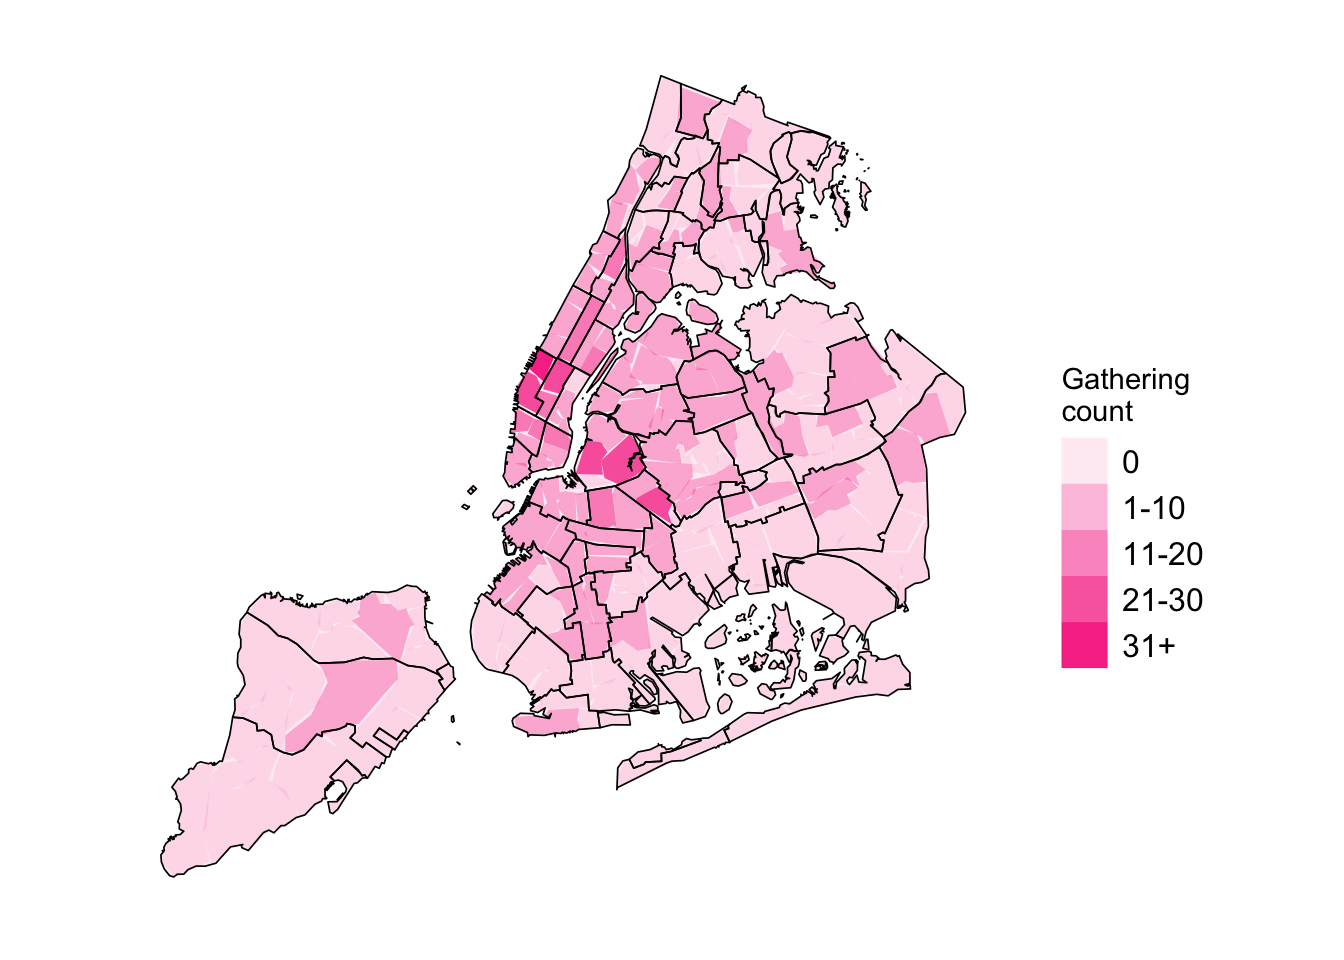
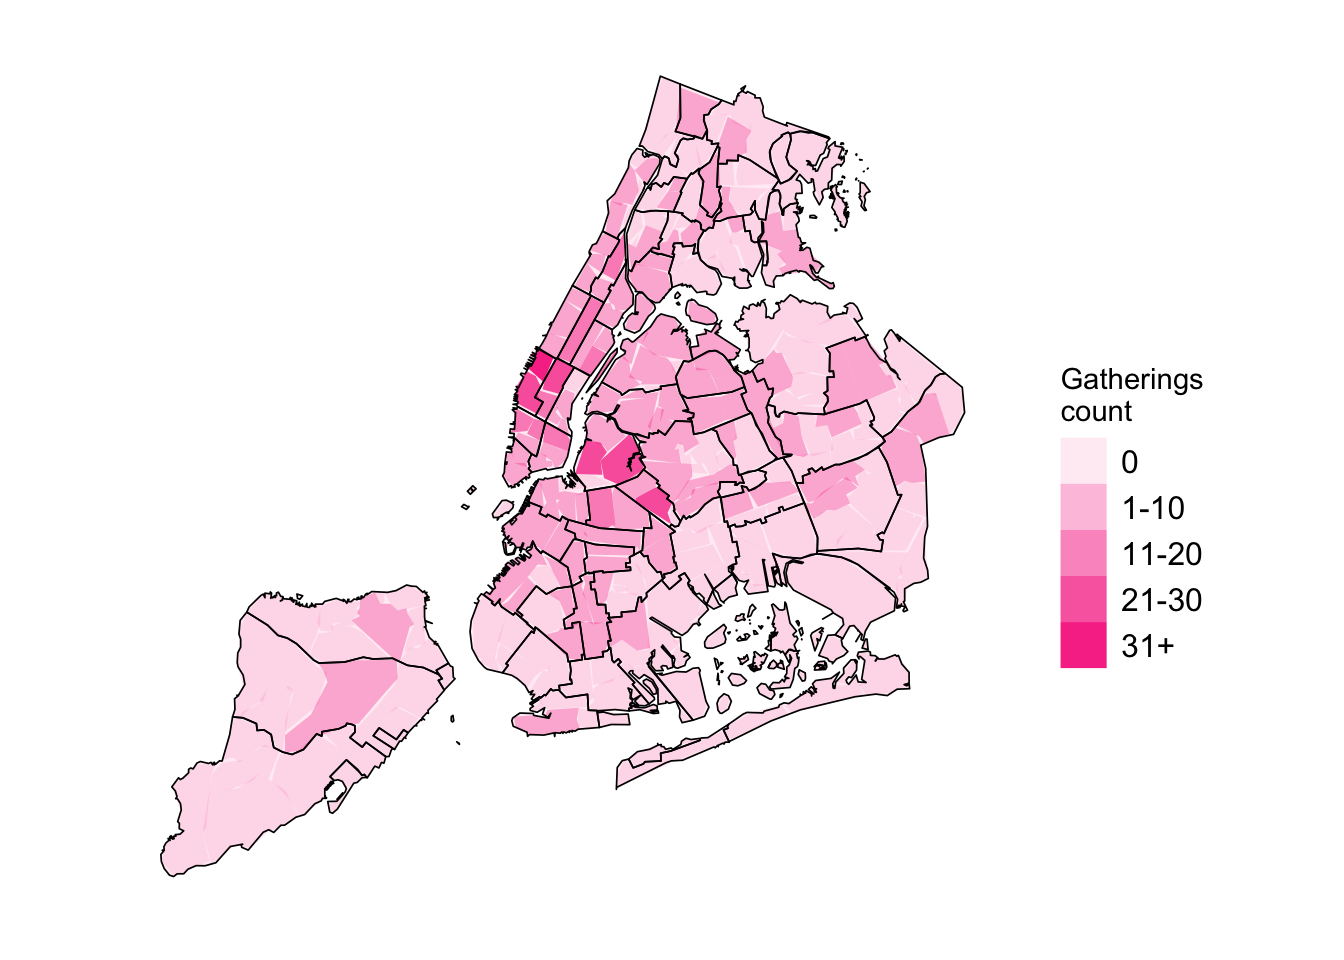
updates

diff --git a/_book/3_results/3_3__results_movement.html b/_book/3_results/3_3__results_movement.html
@@ -4,7 +4,7 @@
 <meta charset="utf-8">
 <meta name="generator" content="quarto-1.3.450">
 <meta name="viewport" content="width=device-width, initial-scale=1.0, user-scalable=yes">
-<title>host or travel? - 9&nbsp; Movement</title>
+<title>host or travel? - 9&nbsp; Journeys</title>
 <style>
 code{white-space: pre-wrap;}
 span.smallcaps{font-variant: small-caps;}
@@ -98,7 +98,7 @@ pre > code.sourceCode > span > a:first-child::before { text-decoration: underlin
       <button type="button" class="quarto-btn-toggle btn" data-bs-toggle="collapse" data-bs-target="#quarto-sidebar,#quarto-sidebar-glass" aria-controls="quarto-sidebar" aria-expanded="false" aria-label="Toggle sidebar navigation" onclick="if (window.quartoToggleHeadroom) { window.quartoToggleHeadroom(); }">
         <i class="bi bi-layout-text-sidebar-reverse"></i>
       </button>
-      <nav class="quarto-page-breadcrumbs" aria-label="breadcrumb"><ol class="breadcrumb"><li class="breadcrumb-item"><a href="../3_results/3_1__results_participants.html">*Results</a></li><li class="breadcrumb-item"><a href="../3_results/3_3__results_movement.html"><span class="chapter-number">9</span>&nbsp; <span class="chapter-title">Movement</span></a></li></ol></nav>
+      <nav class="quarto-page-breadcrumbs" aria-label="breadcrumb"><ol class="breadcrumb"><li class="breadcrumb-item"><a href="../3_results/3_1__results_participants.html">*Results</a></li><li class="breadcrumb-item"><a href="../3_results/3_3__results_movement.html"><span class="chapter-number">9</span>&nbsp; <span class="chapter-title">Journeys</span></a></li></ol></nav>
       <a class="flex-grow-1" role="button" data-bs-toggle="collapse" data-bs-target="#quarto-sidebar,#quarto-sidebar-glass" aria-controls="quarto-sidebar" aria-expanded="false" aria-label="Toggle sidebar navigation" onclick="if (window.quartoToggleHeadroom) { window.quartoToggleHeadroom(); }">      
       </a>
       <button type="button" class="btn quarto-search-button" aria-label="" onclick="window.quartoOpenSearch();">
@@ -203,13 +203,13 @@ pre > code.sourceCode > span > a:first-child::before { text-decoration: underlin
           <li class="sidebar-item">
   <div class="sidebar-item-container"> 
   <a href="../3_results/3_2__results_contact_venues.html" class="sidebar-item-text sidebar-link">
- <span class="menu-text"><span class="chapter-number">8</span>&nbsp; <span class="chapter-title">Places</span></span></a>
+ <span class="menu-text"><span class="chapter-number">8</span>&nbsp; <span class="chapter-title">Gatherings</span></span></a>
   </div>
 </li>
           <li class="sidebar-item">
   <div class="sidebar-item-container"> 
   <a href="../3_results/3_3__results_movement.html" class="sidebar-item-text sidebar-link active">
- <span class="menu-text"><span class="chapter-number">9</span>&nbsp; <span class="chapter-title">Movement</span></span></a>
+ <span class="menu-text"><span class="chapter-number">9</span>&nbsp; <span class="chapter-title">Journeys</span></span></a>
   </div>
 </li>
           <li class="sidebar-item">
@@ -344,7 +344,7 @@ pre > code.sourceCode > span > a:first-child::before { text-decoration: underlin
   </ul></nav>
     </div>
 <!-- main -->
-<main class="content" id="quarto-document-content"><header id="title-block-header"><div class="quarto-title-block d-none d-lg-block"><div><h1 class="title"><span id="sec-movement" class="quarto-section-identifier"><span class="chapter-number">9</span>&nbsp; <span class="chapter-title">Movement</span></span></h1><button type="button" class="btn code-tools-button dropdown-toggle" id="quarto-code-tools-menu" data-bs-toggle="dropdown" aria-expanded="false"><i class="bi"></i> Code</button><ul class="dropdown-menu dropdown-menu-end" aria-labelelledby="quarto-code-tools-menu"><li><a id="quarto-show-all-code" class="dropdown-item" href="javascript:void(0)" role="button">Show All Code</a></li><li><a id="quarto-hide-all-code" class="dropdown-item" href="javascript:void(0)" role="button">Hide All Code</a></li></ul></div></div>
+<main class="content" id="quarto-document-content"><header id="title-block-header"><div class="quarto-title-block d-none d-lg-block"><div><h1 class="title"><span id="sec-movement" class="quarto-section-identifier"><span class="chapter-number">9</span>&nbsp; <span class="chapter-title">Journeys</span></span></h1><button type="button" class="btn code-tools-button dropdown-toggle" id="quarto-code-tools-menu" data-bs-toggle="dropdown" aria-expanded="false"><i class="bi"></i> Code</button><ul class="dropdown-menu dropdown-menu-end" aria-labelelledby="quarto-code-tools-menu"><li><a id="quarto-show-all-code" class="dropdown-item" href="javascript:void(0)" role="button">Show All Code</a></li><li><a id="quarto-hide-all-code" class="dropdown-item" href="javascript:void(0)" role="button">Hide All Code</a></li></ul></div></div>
 
 </header><div class="cell" data-hash="3_3__results_movement_cache/html/unnamed-chunk-1_45b06088b95dd92a75be029873bfb7b4">
 <details><summary>Code</summary><div class="sourceCode" id="cb1"><pre class="downlit sourceCode r code-with-copy"><code class="sourceCode R"><span><span class="co"># Access custom defined functions</span></span>
@@ -682,7 +682,7 @@ window.document.addEventListener("DOMContentLoaded", function (event) {
 });
 </script><nav class="page-navigation"><div class="nav-page nav-page-previous">
       <a href="../3_results/3_2__results_contact_venues.html" class="pagination-link">
-        <i class="bi bi-arrow-left-short"></i> <span class="nav-page-text"><span class="chapter-number">8</span>&nbsp; <span class="chapter-title">Places</span></span>
+        <i class="bi bi-arrow-left-short"></i> <span class="nav-page-text"><span class="chapter-number">8</span>&nbsp; <span class="chapter-title">Gatherings</span></span>
       </a>          
   </div>
   <div class="nav-page nav-page-next">

diff --git a/_book/3_results/3_5__results_outbreak_control.html b/_book/3_results/3_5__results_outbreak_control.html
@@ -4,7 +4,7 @@
 <meta charset="utf-8">
 <meta name="generator" content="quarto-1.3.450">
 <meta name="viewport" content="width=device-width, initial-scale=1.0, user-scalable=yes">
-<title>host or travel? - 11&nbsp; *Outbreak control</title>
+<title>host or travel? - 11&nbsp; *Outbreaks</title>
 <style>
 code{white-space: pre-wrap;}
 span.smallcaps{font-variant: small-caps;}
@@ -98,7 +98,7 @@ pre > code.sourceCode > span > a:first-child::before { text-decoration: underlin
       <button type="button" class="quarto-btn-toggle btn" data-bs-toggle="collapse" data-bs-target="#quarto-sidebar,#quarto-sidebar-glass" aria-controls="quarto-sidebar" aria-expanded="false" aria-label="Toggle sidebar navigation" onclick="if (window.quartoToggleHeadroom) { window.quartoToggleHeadroom(); }">
         <i class="bi bi-layout-text-sidebar-reverse"></i>
       </button>
-      <nav class="quarto-page-breadcrumbs" aria-label="breadcrumb"><ol class="breadcrumb"><li class="breadcrumb-item"><a href="../3_results/3_1__results_participants.html">*Results</a></li><li class="breadcrumb-item"><a href="../3_results/3_5__results_outbreak_control.html"><span class="chapter-number">11</span>&nbsp; <span class="chapter-title">*Outbreak control</span></a></li></ol></nav>
+      <nav class="quarto-page-breadcrumbs" aria-label="breadcrumb"><ol class="breadcrumb"><li class="breadcrumb-item"><a href="../3_results/3_1__results_participants.html">*Results</a></li><li class="breadcrumb-item"><a href="../3_results/3_5__results_outbreak_control.html"><span class="chapter-number">11</span>&nbsp; <span class="chapter-title">*Outbreaks</span></a></li></ol></nav>
       <a class="flex-grow-1" role="button" data-bs-toggle="collapse" data-bs-target="#quarto-sidebar,#quarto-sidebar-glass" aria-controls="quarto-sidebar" aria-expanded="false" aria-label="Toggle sidebar navigation" onclick="if (window.quartoToggleHeadroom) { window.quartoToggleHeadroom(); }">      
       </a>
       <button type="button" class="btn quarto-search-button" aria-label="" onclick="window.quartoOpenSearch();">
@@ -203,13 +203,13 @@ pre > code.sourceCode > span > a:first-child::before { text-decoration: underlin
           <li class="sidebar-item">
   <div class="sidebar-item-container"> 
   <a href="../3_results/3_2__results_contact_venues.html" class="sidebar-item-text sidebar-link">
- <span class="menu-text"><span class="chapter-number">8</span>&nbsp; <span class="chapter-title">Places</span></span></a>
+ <span class="menu-text"><span class="chapter-number">8</span>&nbsp; <span class="chapter-title">Gatherings</span></span></a>
   </div>
 </li>
           <li class="sidebar-item">
   <div class="sidebar-item-container"> 
   <a href="../3_results/3_3__results_movement.html" class="sidebar-item-text sidebar-link">
- <span class="menu-text"><span class="chapter-number">9</span>&nbsp; <span class="chapter-title">Movement</span></span></a>
+ <span class="menu-text"><span class="chapter-number">9</span>&nbsp; <span class="chapter-title">Journeys</span></span></a>
   </div>
 </li>
           <li class="sidebar-item">
@@ -221,7 +221,7 @@ pre > code.sourceCode > span > a:first-child::before { text-decoration: underlin
           <li class="sidebar-item">
   <div class="sidebar-item-container"> 
   <a href="../3_results/3_5__results_outbreak_control.html" class="sidebar-item-text sidebar-link active">
- <span class="menu-text"><span class="chapter-number">11</span>&nbsp; <span class="chapter-title">*Outbreak control</span></span></a>
+ <span class="menu-text"><span class="chapter-number">11</span>&nbsp; <span class="chapter-title">*Outbreaks</span></span></a>
   </div>
 </li>
       </ul>
@@ -344,7 +344,7 @@ pre > code.sourceCode > span > a:first-child::before { text-decoration: underlin
   </ul></nav>
     </div>
 <!-- main -->
-<main class="content" id="quarto-document-content"><header id="title-block-header"><div class="quarto-title-block d-none d-lg-block"><div><h1 class="title"><span id="sec-intervention" class="quarto-section-identifier"><span class="chapter-number">11</span>&nbsp; <span class="chapter-title">*Outbreak control</span></span></h1><button type="button" class="btn code-tools-button dropdown-toggle" id="quarto-code-tools-menu" data-bs-toggle="dropdown" aria-expanded="false"><i class="bi"></i> Code</button><ul class="dropdown-menu dropdown-menu-end" aria-labelelledby="quarto-code-tools-menu"><li><a id="quarto-show-all-code" class="dropdown-item" href="javascript:void(0)" role="button">Show All Code</a></li><li><a id="quarto-hide-all-code" class="dropdown-item" href="javascript:void(0)" role="button">Hide All Code</a></li></ul></div></div>
+<main class="content" id="quarto-document-content"><header id="title-block-header"><div class="quarto-title-block d-none d-lg-block"><div><h1 class="title"><span id="sec-intervention" class="quarto-section-identifier"><span class="chapter-number">11</span>&nbsp; <span class="chapter-title">*Outbreaks</span></span></h1><button type="button" class="btn code-tools-button dropdown-toggle" id="quarto-code-tools-menu" data-bs-toggle="dropdown" aria-expanded="false"><i class="bi"></i> Code</button><ul class="dropdown-menu dropdown-menu-end" aria-labelelledby="quarto-code-tools-menu"><li><a id="quarto-show-all-code" class="dropdown-item" href="javascript:void(0)" role="button">Show All Code</a></li><li><a id="quarto-hide-all-code" class="dropdown-item" href="javascript:void(0)" role="button">Hide All Code</a></li></ul></div></div>
 
 </header><div class="cell" data-hash="3_5__results_outbreak_control_cache/html/unnamed-chunk-1_4fcf7c0320b325294b68db210ed6f760">
 <details><summary>Code</summary><div class="sourceCode" id="cb1"><pre class="downlit sourceCode r code-with-copy"><code class="sourceCode R"><span><span class="co"># Access custom defined functions</span></span>

diff --git a/_book/3_results/3_2__results_contact_venues.html b/_book/3_results/3_2__results_contact_venues.html
@@ -971,7 +971,7 @@ N = 616<span class="gt_footnote_marks" style="white-space:nowrap;font-style:ital
 </div>
 </div>
 <p>Contact venues at which participants had sexual contact (rather than non-sexual physical contact) were overwhelmingly private residences whereas contact venues at which they had non-sexual physical contact were mostly dance parties (see <a href="#fig-placetype-bar-grid">Figure&nbsp;<span>8.1</span></a>). The closer to home a location was, the more likely it was to be a private residence and the more likely it was the site of sexual contact. By contrast, the further from home a contact venue was, the more likely it was to be a dance party.</p>
-<div class="cell" data-hash="3_2__results_contact_venues_cache/html/unnamed-chunk-4_5517c16d89aba41860e061c199bbcd7d">
+<div class="cell" data-hash="3_2__results_contact_venues_cache/html/unnamed-chunk-4_5923d4f3f375089507c0c8d140b1b598">
 <details><summary>Code</summary><div class="sourceCode" id="cb3"><pre class="downlit sourceCode r code-with-copy"><code class="sourceCode R"><span><span class="va">make_tabledata_gatherings</span> <span class="op">&lt;-</span> <span class="kw">function</span><span class="op">(</span><span class="op">)</span><span class="op">{</span></span>
 <span>  <span class="fu">targets</span><span class="fu">::</span><span class="fu"><a href="https://docs.ropensci.org/targets/reference/tar_read.html">tar_read</a></span><span class="op">(</span><span class="va">data_bipartite_graph_collected</span><span class="op">)</span> <span class="op">|&gt;</span></span>
 <span>    <span class="fu">tidygraph</span><span class="fu">::</span><span class="fu"><a href="https://tidygraph.data-imaginist.com/reference/activate.html">activate</a></span><span class="op">(</span><span class="va">edges</span><span class="op">)</span><span class="op">|&gt;</span></span>
@@ -999,7 +999,7 @@ N = 616<span class="gt_footnote_marks" style="white-space:nowrap;font-style:ital
 <span>  <span class="fu">ggplot2</span><span class="fu">::</span><span class="fu"><a href="https://ggplot2.tidyverse.org/reference/ggsf.html">geom_sf</a></span><span class="op">(</span>data <span class="op">=</span> <span class="fu">mpxnyc</span><span class="fu">::</span><span class="va">community_sf_obj</span>, fill <span class="op">=</span> <span class="st">"#F73C95"</span>, linewidth <span class="op">=</span> <span class="fl">0</span>, color <span class="op">=</span> <span class="cn">NA</span>, alpha <span class="op">=</span> <span class="fl">0.1</span><span class="op">)</span> <span class="op">+</span></span>
 <span>  <span class="fu">ggplot2</span><span class="fu">::</span><span class="fu"><a href="https://ggplot2.tidyverse.org/reference/ggsf.html">geom_sf</a></span><span class="op">(</span><span class="fu">ggplot2</span><span class="fu">::</span><span class="fu"><a href="https://ggplot2.tidyverse.org/reference/aes.html">aes</a></span><span class="op">(</span>alpha <span class="op">=</span> <span class="va">count_cat</span><span class="op">)</span>, linewidth <span class="op">=</span> <span class="fl">0</span>, fill <span class="op">=</span> <span class="st">"#F73C95"</span>, color <span class="op">=</span> <span class="st">"#FF99C5"</span><span class="op">)</span> <span class="op">+</span></span>
 <span>  <span class="fu">ggplot2</span><span class="fu">::</span><span class="fu"><a href="https://ggplot2.tidyverse.org/reference/ggsf.html">geom_sf</a></span><span class="op">(</span>data <span class="op">=</span> <span class="fu">mpxnyc</span><span class="fu">::</span><span class="va">community_sf_obj</span>, fill <span class="op">=</span> <span class="cn">NA</span>, linewidth <span class="op">=</span> <span class="fl">0.3</span>, color <span class="op">=</span> <span class="st">"black"</span><span class="op">)</span> <span class="op">+</span></span>
-<span>  <span class="fu">ggplot2</span><span class="fu">::</span><span class="fu"><a href="https://ggplot2.tidyverse.org/reference/scale_alpha.html">scale_alpha_discrete</a></span><span class="op">(</span><span class="st">"Gathering\ncount"</span><span class="op">)</span> <span class="op">+</span></span>
+<span>  <span class="fu">ggplot2</span><span class="fu">::</span><span class="fu"><a href="https://ggplot2.tidyverse.org/reference/scale_alpha.html">scale_alpha_discrete</a></span><span class="op">(</span><span class="st">"Gatherings\ncount"</span><span class="op">)</span> <span class="op">+</span></span>
 <span>  <span class="fu">theme_mpxnyc_blank</span><span class="op">(</span></span>
 <span>    plot.background <span class="op">=</span> <span class="fu">ggplot2</span><span class="fu">::</span><span class="fu"><a href="https://ggplot2.tidyverse.org/reference/element.html">element_rect</a></span><span class="op">(</span>fill <span class="op">=</span> <span class="st">"white"</span><span class="op">)</span>,</span>
 <span>    legend.position <span class="op">=</span> <span class="st">"right"</span></span>
